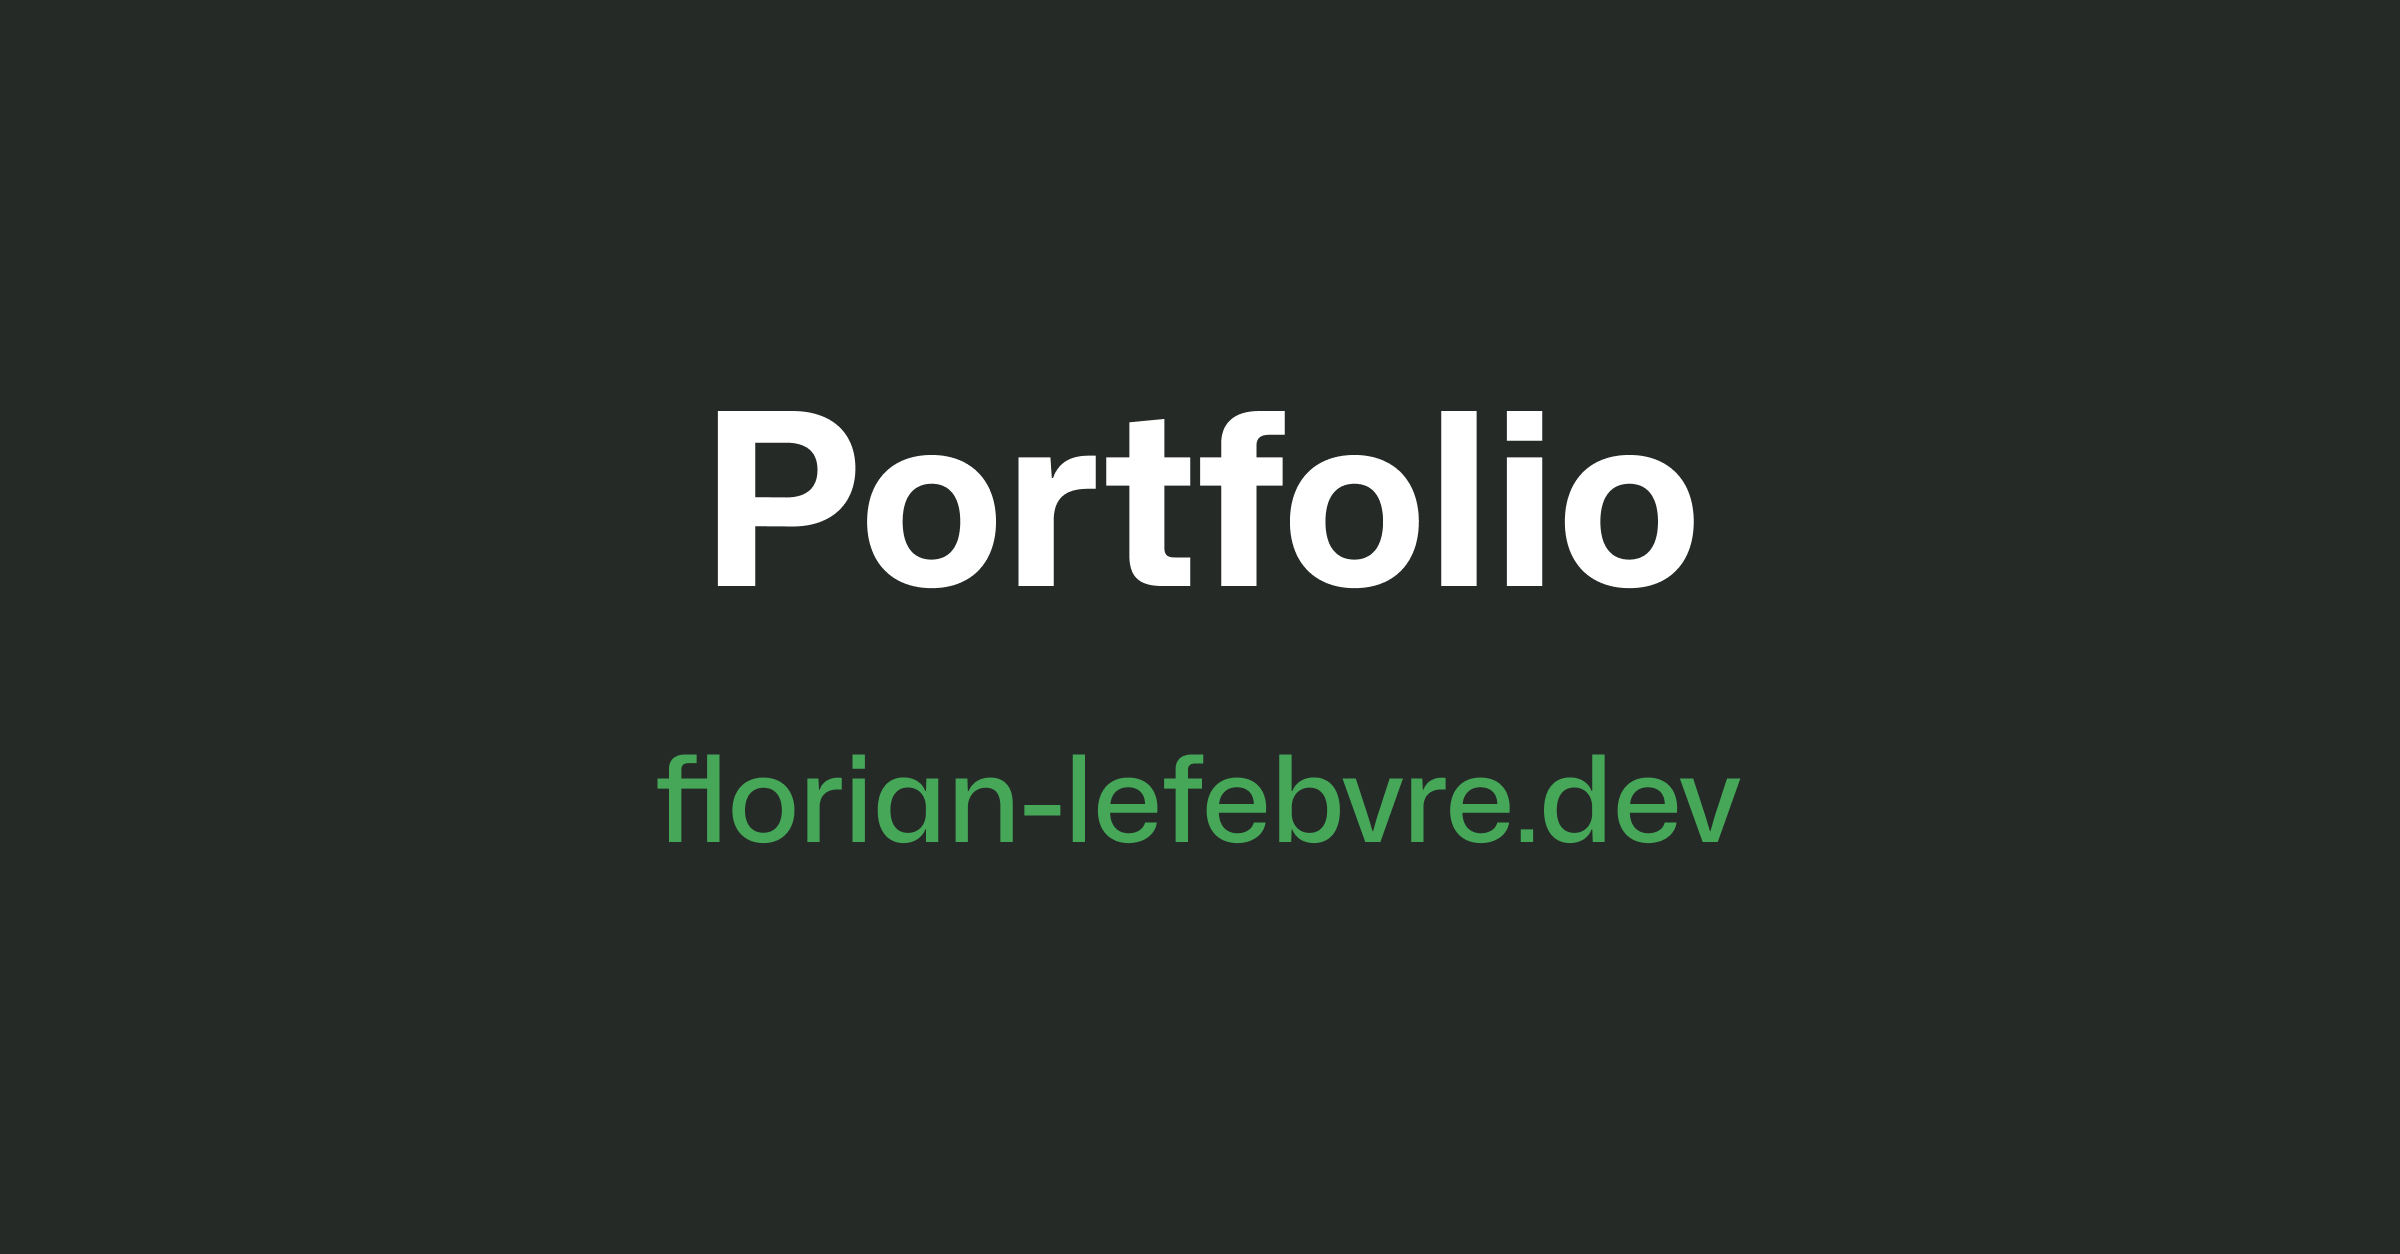
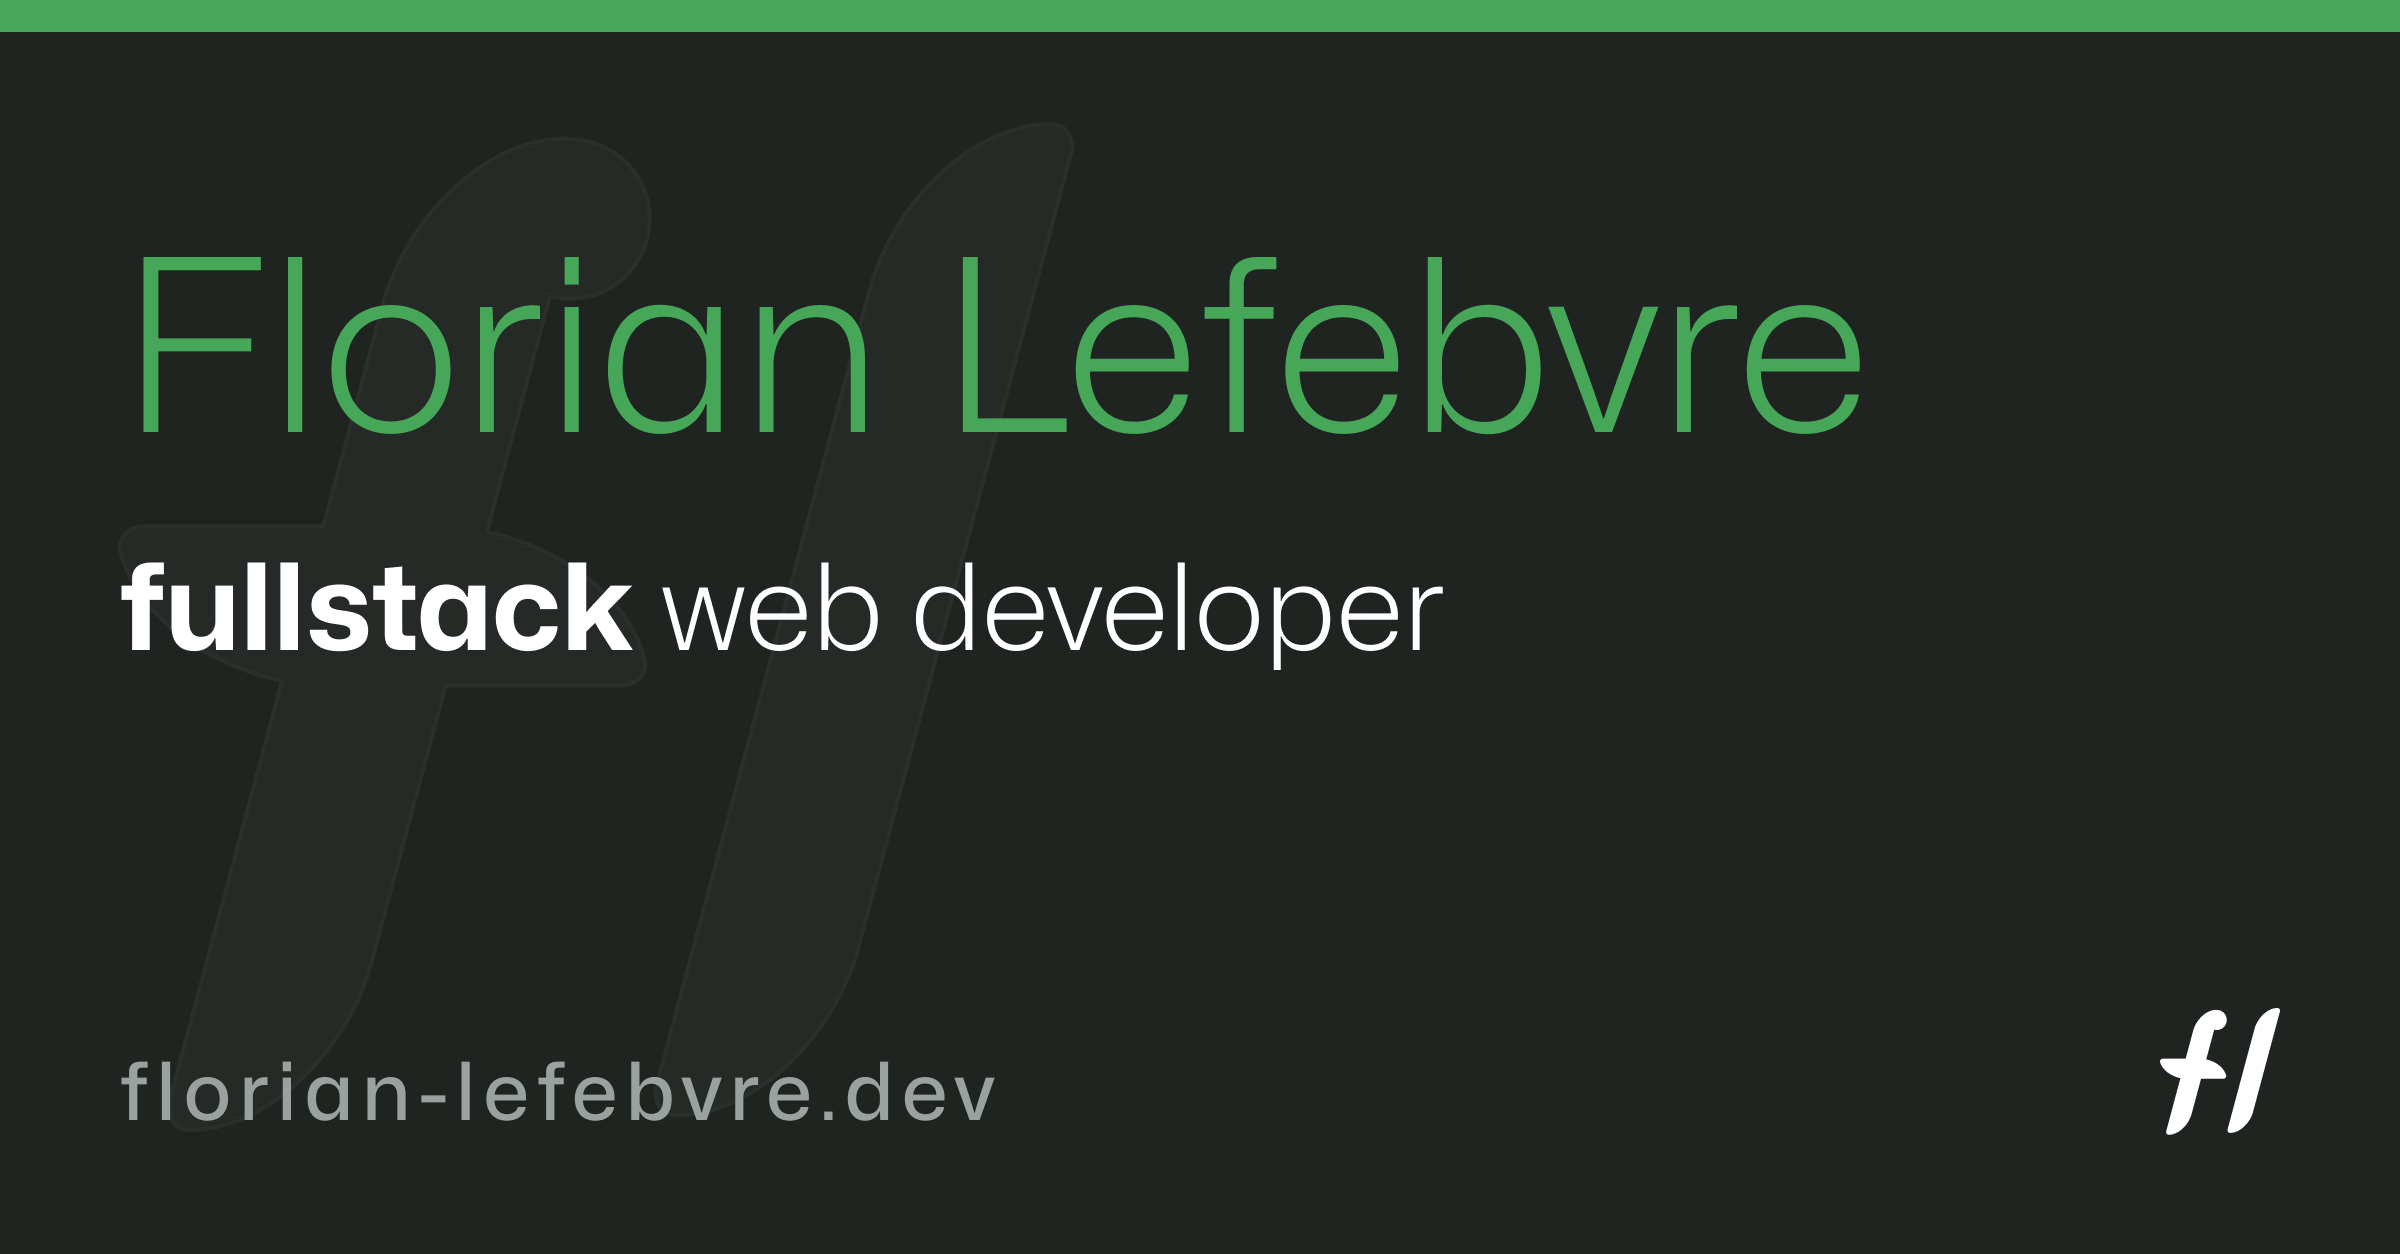
update og image

diff --git a/TODO.md b/TODO.md
@@ -14,9 +14,9 @@
 -   [x] LICENSE
 -   [x] BUG: prefers-reduce-motion breaks swup
 -   [x] a11y: zoom component
+-   [x] seo global + meta defaults
 -   [ ] content
--   [ ] (astro endpoints + og image?)
--   [ ] seo (global + per mdx file) + meta defaults
+-   [ ] seo tags per mdx file
 -   [ ] check for TODOs
 -   [ ] Netlify redirects file
 -   [ ] remove robots.txt
